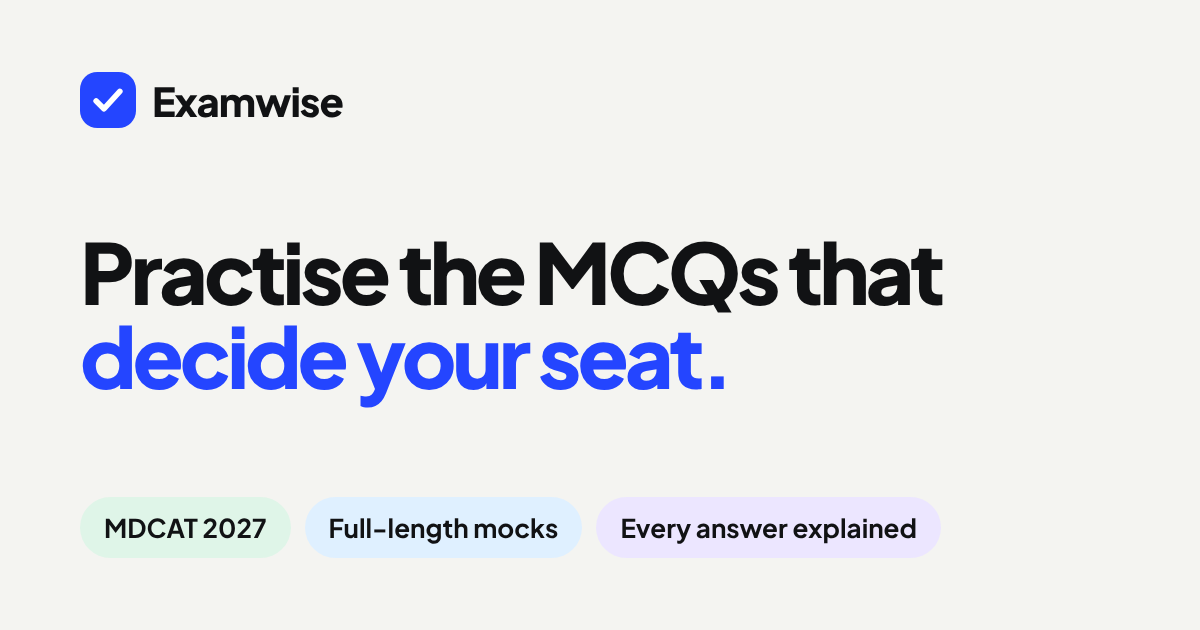
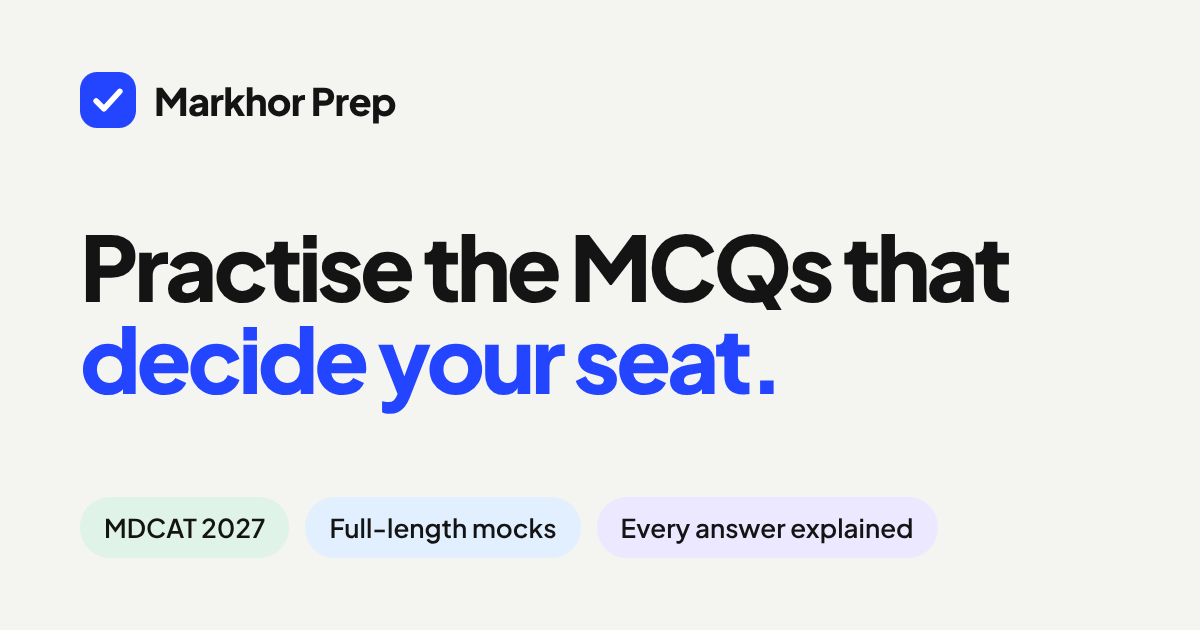
Rename the site to Markhor Prep
The brand name, app name, share image, support address and staff messages now say Markhor Prep. Migration 0045 updates the source line on the Logical Reasoning questions that named the old brand. Existing account emails are unchanged.

diff --git a/server/insights.ts b/server/insights.ts
@@ -124,13 +124,13 @@ export const insightRoutes: Record<string, (c: Ctx) => Promise<Response>> = {
           (SELECT count(DISTINCT question_id) FROM answers a WHERE a.user_id = u.id AND a.counted_at IS NOT NULL AND a.answer IS NOT NULL) AS answered
         FROM users u ORDER BY u.created_at DESC LIMIT 20000`)
       .all<{ name: string; email: string | null; phone: string | null; role: string; plan: string; plan_expires_at: number | null; created_at: number; last_seen: number | null; answered: number }>();
-    return csv(`examwise-accounts-${pkDay(Date.now())}.csv`, ["Name", "Email", "Phone", "Role", "Plan", "Plan ends", "Joined", "Last seen", "Questions answered"],
+    return csv(`markhor-prep-accounts-${pkDay(Date.now())}.csv`, ["Name", "Email", "Phone", "Role", "Plan", "Plan ends", "Joined", "Last seen", "Questions answered"],
       results.map((u) => [u.name, u.email, u.phone, u.role, u.plan, iso(u.plan_expires_at), iso(u.created_at), iso(u.last_seen), u.answered]));
   },
 
   "GET /api/admin/waitlist/export": async (c) => {
     await requireRole(c, ["admin"]);
     const { results } = await c.db.prepare("SELECT contact, kind, created_at FROM waitlist ORDER BY created_at DESC LIMIT 20000").all<{ contact: string; kind: string; created_at: number }>();
-    return csv(`examwise-waitlist-${pkDay(Date.now())}.csv`, ["Contact", "Kind", "Joined"], results.map((w) => [w.contact, w.kind, iso(w.created_at)]));
+    return csv(`markhor-prep-waitlist-${pkDay(Date.now())}.csv`, ["Contact", "Kind", "Joined"], results.map((w) => [w.contact, w.kind, iso(w.created_at)]));
   },
 };

diff --git a/android/app/src/main/kotlin/pk/examwise/app/ui/start/StartScreens.kt b/android/app/src/main/kotlin/pk/examwise/app/ui/start/StartScreens.kt
@@ -85,7 +85,7 @@ fun UpdateScreen() {
     Column(Modifier.fillMaxSize().padding(28.dp), verticalArrangement = Arrangement.Center, horizontalAlignment = Alignment.CenterHorizontally) {
         Logo()
         Spacer(Modifier.height(24.dp))
-        Text("Update Examwise to continue", style = MaterialTheme.typography.headlineSmall, color = c.ink, textAlign = TextAlign.Center)
+        Text("Update Markhor Prep to continue", style = MaterialTheme.typography.headlineSmall, color = c.ink, textAlign = TextAlign.Center)
         Spacer(Modifier.height(8.dp))
         Text("This version no longer works. The new one is waiting on Google Play.", style = MaterialTheme.typography.bodyLarge, color = c.muted, textAlign = TextAlign.Center)
         Spacer(Modifier.height(24.dp))
@@ -107,7 +107,7 @@ fun BlockedScreen(message: String, container: AppContainer, nav: NavHostControll
     Column(Modifier.fillMaxSize().padding(28.dp), verticalArrangement = Arrangement.Center, horizontalAlignment = Alignment.CenterHorizontally) {
         Logo()
         Spacer(Modifier.height(24.dp))
-        Text(message.ifBlank { "This device can't open Examwise. Please use the website instead." },
+        Text(message.ifBlank { "This device can't open Markhor Prep. Please use the website instead." },
             style = MaterialTheme.typography.titleMedium, color = c.ink, textAlign = TextAlign.Center)
         Spacer(Modifier.height(24.dp))
         PillButton("Sign out", onClick = {

diff --git a/server/integrity.ts b/server/integrity.ts
@@ -2,7 +2,7 @@ import { b64url } from "./crypto";
 import type { Env } from "./env";
 import { fail } from "./http";
 
-/* Google Play Integrity: is this request from the real Examwise app, installed from Play, on a real phone that hasn't
+/* Google Play Integrity: is this request from the real Markhor Prep app, installed from Play, on a real phone that hasn't
    been tampered with? The app asks Google for a token whose request hash is base64url(SHA-256("action|deviceKey")),
    sends it with the request, and this file asks Google to decode it. Only the app's own features use it (sign-in from
    the app, claiming a device from the app, offline packs); the website is unaffected.
@@ -106,7 +106,7 @@ export async function checkIntegrity(
   if (!why) return true;
   console.warn(`Play Integrity ${opts.action} failed: ${why}`);
   await opts.noteFailure?.(`Play Integrity (${opts.action}): ${why}`);
-  if (mode === "enforce") throw fail(403, "integrity_failed", "This device can't open Examwise. Please use the website instead.");
+  if (mode === "enforce") throw fail(403, "integrity_failed", "This device can't open Markhor Prep. Please use the website instead.");
   return false;
 }
 

diff --git a/server/admin.ts b/server/admin.ts
@@ -19,7 +19,7 @@ const PLANS = ["free", "season", "bundle", "monthly"] as const;
 export async function requireRole(c: Ctx, allowed: Role[]): Promise<Staff> {
   const s = await requireSession(c.db, c.request);
   const u = await c.db.prepare("SELECT id, name, role FROM users WHERE id = ?").bind(s.user_id).first<Staff>();
-  if (!u || u.role === "student") throw fail(403, "forbidden", "This is for Examwise staff only.");
+  if (!u || u.role === "student") throw fail(403, "forbidden", "This is for Markhor Prep staff only.");
   if (!allowed.includes(u.role)) throw fail(403, "forbidden", "Only admins can do this.");
   return u;
 }
@@ -430,7 +430,7 @@ const reportRoutes: Record<string, (c: Ctx) => Promise<Response>> = {
     return json({ ok: true, closed: res.meta.changes });
   },
 
-  /* People who asked to hear when Examwise opens. */
+  /* People who asked to hear when Markhor Prep opens. */
   "GET /api/admin/waitlist": async (c) => {
     await admin(c);
     const { results } = await c.db.prepare("SELECT contact, kind, created_at FROM waitlist ORDER BY created_at DESC LIMIT 2000").all();

diff --git a/components/admin/Waitlist.tsx b/components/admin/Waitlist.tsx
@@ -7,7 +7,7 @@ import { friendlyError } from "@/lib/auth";
 import { type WaitlistEntry, getWaitlist, last } from "@/lib/admin";
 import { day } from "@/lib/format";
 
-/* /admin/waitlist — people who left an email or number on the landing page to hear when Examwise opens. */
+/* /admin/waitlist — people who left an email or number on the landing page to hear when Markhor Prep opens. */
 export default function Waitlist() {
   const [rows, setRows] = useState<WaitlistEntry[] | null>(() => last<WaitlistEntry[]>("waitlist"));
   const [err, setErr] = useState("");
@@ -17,7 +17,7 @@ export default function Waitlist() {
 
   return (
     <div className="dgrid">
-      <PageHead title="Waitlist" sub="People who asked to hear when Examwise opens.">
+      <PageHead title="Waitlist" sub="People who asked to hear when Markhor Prep opens.">
         {!!rows?.length && <a className="dpill light small" href="/api/admin/waitlist/export" download>Download CSV</a>}
         {!!rows?.length && <button type="button" className="dpill light small" onClick={copy}>Copy all</button>}
       </PageHead>

diff --git a/app/landing.css b/app/landing.css
@@ -21,7 +21,7 @@ a { color: inherit; text-decoration: none; }
 /* Nav */
 nav { position: sticky; top: env(safe-area-inset-top, 0px); z-index: 10; padding-block: 14px; }
 .navbar { display: flex; align-items: center; justify-content: space-between; gap: 12px; background: color-mix(in srgb, var(--card) 85%, transparent); backdrop-filter: blur(14px); border-radius: 999px; padding: 8px 8px 8px 20px; box-shadow: var(--shadow); min-width: 0; }
-.logo { display: flex; align-items: center; gap: 10px; font-weight: 800; letter-spacing: -0.03em; font-size: 1.0625rem; min-width: 0; }
+.logo { display: flex; align-items: center; gap: 10px; font-weight: 800; letter-spacing: -0.03em; font-size: 1.0625rem; min-width: 0; white-space: nowrap; }
 .logo svg { flex: none; }
 .navbar ul { display: flex; gap: 28px; list-style: none; margin: 0; padding: 0; font-size: 0.9375rem; font-weight: 500; color: var(--muted); }
 .navbar ul a:hover { color: var(--ink); }

diff --git a/lib/site.ts b/lib/site.ts
@@ -1,10 +1,10 @@
 /* Site-wide names and numbers. The brand lives here and nowhere else. Prices follow the plan's pricing table. */
 export const site = {
-  name: "Examwise",
-  /* The live address. Change to https://examwise.pk once the domain is bought and connected. */
+  name: "Markhor Prep",
+  /* The live address. Change to https://markhorprep.com once the domain is bought and connected. */
   url: "https://mdcat-qbank.pages.dev",
-  /* On the examwise.pk domain once it's bought. */
-  supportEmail: "support@examwise.pk",
+  /* On the markhorprep.com domain once it's bought. */
+  supportEmail: "support@markhorprep.com",
   /* WhatsApp support in international form without the +, e.g. "923001234567". Empty hides the WhatsApp links. */
   whatsapp: "",
   /* The bank is open: anyone can make a free account and practise the free set. */

diff --git a/server/routes.ts b/server/routes.ts
@@ -430,7 +430,7 @@ async function answer(request: Request, env: Env, db: D1Database): Promise<Respo
     // An app too old to be safe is asked to update before anything else; the config call says which version is needed.
     const min = Number(env.APP_MIN_VERSION) || 0;
     if (isApp(request) && url.pathname !== "/api/app/config" && (appVersion(request) ?? 0) < min) {
-      throw fail(426, "update_required", "Please update Examwise to keep going.");
+      throw fail(426, "update_required", "Please update Markhor Prep to keep going.");
     }
     const key = `${request.method} ${url.pathname}`;
     const route = routes[key] ?? adminRoutes[key] ?? visitRoutes[key] ?? studyRoutes[key] ?? prefRoutes[key] ?? insightRoutes[key] ?? appRoutes[key] ?? offlineRoutes[key];

diff --git a/app/auth.css b/app/auth.css
@@ -16,7 +16,7 @@ a { color: inherit; text-decoration: none; }
 .pill.block { width: 100%; }
 .pill svg { flex: none; }
 
-.logo { display: flex; align-items: center; gap: 10px; font-weight: 800; letter-spacing: -0.03em; font-size: 1.0625rem; min-width: 0; }
+.logo { display: flex; align-items: center; gap: 10px; font-weight: 800; letter-spacing: -0.03em; font-size: 1.0625rem; min-width: 0; white-space: nowrap; }
 .logo svg { flex: none; }
 .theme-toggle { width: 40px; height: 40px; display: grid; place-items: center; border: 0; border-radius: 999px; background: var(--card); color: var(--ink); cursor: pointer; flex: none; box-shadow: inset 0 0 0 1px var(--line); transition: transform .2s; }
 .theme-toggle:hover { transform: rotate(-15deg); }

diff --git a/android/app/src/main/kotlin/pk/examwise/app/ui/device/DeviceScreens.kt b/android/app/src/main/kotlin/pk/examwise/app/ui/device/DeviceScreens.kt
@@ -124,7 +124,7 @@ fun DeviceLimitScreen(container: AppContainer, nav: NavHostController) {
     Column(Modifier.fillMaxSize().verticalScroll(rememberScrollState()).padding(20.dp), verticalArrangement = Arrangement.spacedBy(14.dp)) {
         Spacer(Modifier.height(12.dp))
         Text("You're signed in on two devices", style = MaterialTheme.typography.headlineSmall, color = c.ink)
-        Text("Remove one to use Examwise on this phone.", style = MaterialTheme.typography.bodyLarge, color = c.muted)
+        Text("Remove one to use Markhor Prep on this phone.", style = MaterialTheme.typography.bodyLarge, color = c.muted)
         note?.let { Note(it, "warn") }
         Panel(padding = 0.dp) {
             list.forEachIndexed { i, d ->

diff --git a/server/env.ts b/server/env.ts
@@ -21,7 +21,7 @@ export interface Env {
 
   CF_ACCOUNT_ID?: string;
   CF_EMAIL_API_TOKEN?: string; // Cloudflare API token with "Email Sending: Edit"
-  EMAIL_FROM?: string; // e.g. "Examwise <no-reply@yourdomain.com>"
+  EMAIL_FROM?: string; // e.g. "Markhor Prep <no-reply@yourdomain.com>"
 
   /* Android app. APP_MIN_VERSION: older app versions are told to update (426). APP_LATEST_VERSION: the newest on Play.
      OFFLINE_ENABLED: "1" switches offline packs on. PLAY_CLOUD_PROJECT_NUMBER: the Google Cloud project linked to Play,

diff --git a/android/core/src/test/kotlin/pk/examwise/core/ApiTest.kt b/android/core/src/test/kotlin/pk/examwise/core/ApiTest.kt
@@ -65,7 +65,7 @@ class ApiTest {
         assertEquals("Bearer secret-token-1234567890", h["Authorization"])
         assertEquals("android", h["X-Client"])
         assertEquals("7", h["X-App-Version"])
-        assertTrue(h["User-Agent"]!!.startsWith("Examwise-Android"))
+        assertTrue(h["User-Agent"]!!.startsWith("MarkhorPrep-Android"))
     }
 
     @Test fun noBearerWhenSignedOut() = runTest {
